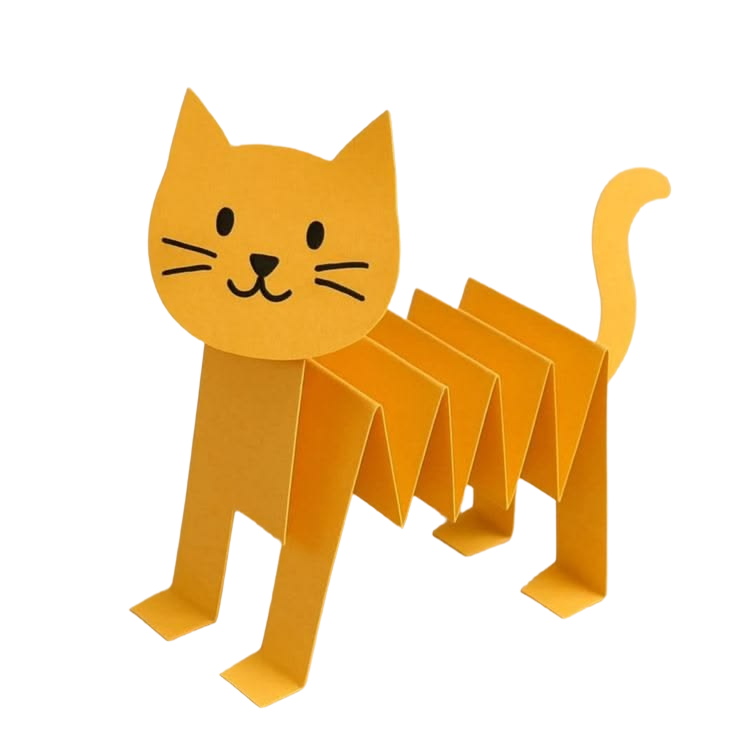
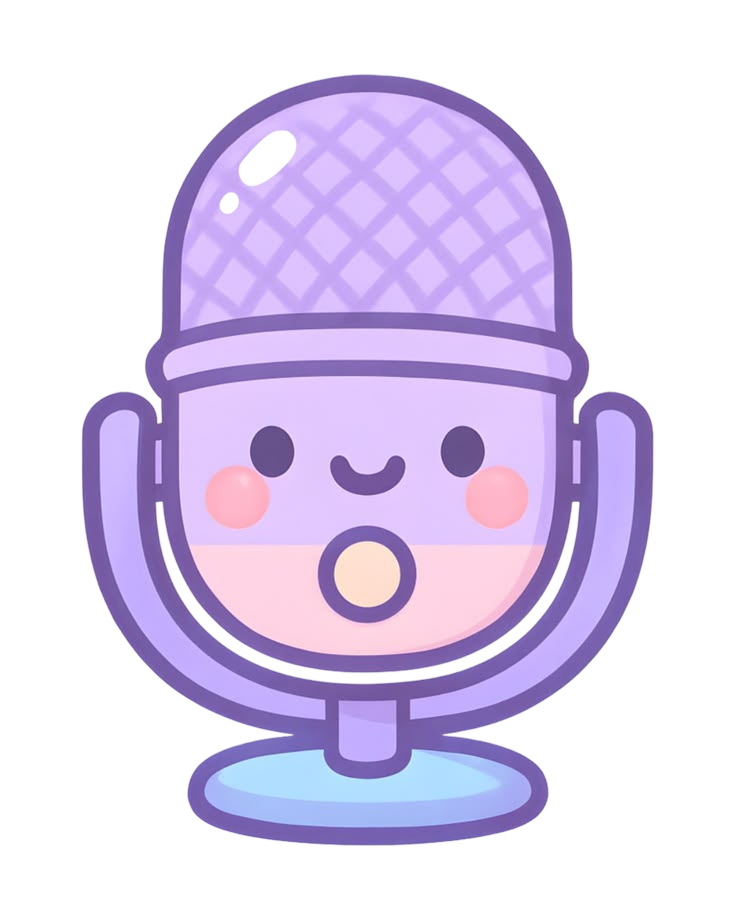
feat:redesign certificate

diff --git a/src/app/certificate/[code]/page.js b/src/app/certificate/[code]/page.js
@@ -25,26 +25,55 @@ export default async function CertificatePage({ params }) {
 
   return (
     <div className="page">
+      {/* Navigasi & Tombol Cetak (Otomatis hilang saat di-print) */}
       <div className="mb-6 flex flex-wrap items-center justify-between gap-3 print:hidden">
-        <Link href="/profile" className="text-sm font-semibold text-brand-700 hover:underline">← Kembali ke profil</Link>
+        <Link href="/profile" className="text-sm font-semibold text-brand-700 hover:underline">
+          ← Kembali ke profil
+        </Link>
         <PrintButton />
       </div>
 
-      <div className="hero-gradient mx-auto max-w-4xl rounded-3xl p-3 print:max-w-none print:rounded-none">
-        <div className="relative overflow-hidden rounded-2xl bg-white p-8 text-center sm:p-14">
-          <span aria-hidden="true" className="absolute left-6 top-6 text-3xl text-brand-300">✦</span>
-          <span aria-hidden="true" className="absolute right-8 top-10 text-2xl text-sky-300">✦</span>
-          <span aria-hidden="true" className="absolute bottom-8 left-10 text-2xl text-amber-300">✦</span>
-          <span aria-hidden="true" className="absolute bottom-6 right-6 text-3xl text-emerald-300">✦</span>
+      {/* Kanvas Sertifikat Rasio 16:9 sesuai template gambar */}
+      <div className="relative mx-auto aspect-video w-full max-w-5xl overflow-hidden rounded-3xl shadow-2xl print:max-w-none print:rounded-none print:shadow-none">
+        
+        {/* 1. Background Template Gambar Anda */}
+        <img
+          src="/images/certificate-bg.png"
+          alt="Bingkai Sertifikat BELLAJAR"
+          className="h-full w-full object-cover"
+        />
 
-          <div className="flex justify-center"><Logo size="lg" /></div>
-          <h1 className="mt-6 text-4xl sm:text-5xl">Sertifikat Kelulusan</h1>
-          <p className="mt-6 text-stone-600">Diberikan dengan bangga kepada</p>
-          <p className="mt-3 border-b-4 border-brand-300 pb-3 text-4xl font-bold text-brand-700 sm:text-5xl">{cert.student_name}</p>
-          <p className="mt-6 text-stone-600">yang telah menyelesaikan seluruh materi kursus</p>
-          <p className="mt-2 text-2xl font-bold text-emerald-700 sm:text-3xl">{cert.course_title}</p>
+        {/* 2. Isi Teks Dinamis di Atas Gambar */}
+        <div className="absolute inset-0 flex flex-col items-center justify-between px-14 py-8 text-center sm:px-24 sm:py-12">
+          
+          {/* Bagian Atas: Logo & Judul */}
+          <div className="flex flex-col items-center">
+            <Logo size="lg" />
+            <h1 className="mt-2 text-2xl font-extrabold tracking-wide text-[#3C096C] sm:mt-3 sm:text-4xl">
+              Sertifikat Kelulusan
+            </h1>
+            <p className="mt-1 text-xs font-medium text-stone-600 sm:text-sm">
+              Diberikan dengan bangga kepada
+            </p>
+          </div>
 
-          <div className="mt-10 grid gap-6 text-sm sm:grid-cols-3">
+          {/* Bagian Tengah: Nama Anak & Judul Kursus */}
+          <div className="my-auto flex w-full max-w-2xl flex-col items-center">
+            <p className="border-b-4 border-dashed border-[#FACC15] px-6 pb-2 text-2xl font-extrabold text-[#A828B5] sm:text-5xl">
+              {cert.student_name}
+            </p>
+
+            <p className="mt-3 text-xs font-medium text-stone-600 sm:mt-4 sm:text-base">
+              yang telah menyelesaikan seluruh materi kursus
+            </p>
+
+            <p className="mt-1.5 rounded-full bg-[#FAF5FF] px-5 py-1 text-base font-bold text-[#3C096C] ring-2 ring-[#E935C1]/30 sm:text-2xl">
+              {cert.course_title}
+            </p>
+          </div>
+
+          {/* Bagian Bawah: Tanggal, Pengajar & Kode Verifikasi (Digeser agak ke kiri agar tidak menabrak stiker medali kanan bawah) */}
+          <div className="grid w-full max-w-2xl grid-cols-3 gap-4 pb-1 pr-10 text-xs sm:pb-2 sm:pr-20 sm:text-sm">
             <div>
               <p className="text-stone-500">Tanggal lulus</p>
               <p className="font-semibold text-ink">{formatDate(cert.issued_at)}</p>
@@ -58,6 +87,7 @@ export default async function CertificatePage({ params }) {
               <p className="font-mono font-bold tracking-wider text-ink">{cert.certificate_code}</p>
             </div>
           </div>
+
         </div>
       </div>
     </div>

diff --git a/src/app/page.js b/src/app/page.js
@@ -40,36 +40,64 @@ export default async function HomePage({ searchParams }) {
     searching ? getCourses({ userId, search: q, categoryId }) : Promise.resolve([]),
   ]);
 
-  const shadow = { textShadow: '0 2px 14px rgba(120, 40, 160, 0.35)' };
+  // HAPUS kode `const shadow = ...` yang lama, GANTI dengan ini:
+    const shadow3dTitle = {
+      fontFamily: "'Nunito', sans-serif", 
+      textShadow: `
+        0 1px 0 #7b2cbf,
+        0 2px 0 #5a189a,
+        0 3px 0 #3c096c,
+        0 6px 12px rgba(35, 10, 65, 0.45)
+      `,
+    };
+
+    const shadow3dSubtitle = {
+      textShadow: '0 2px 6px rgba(45, 15, 85, 0.75)',
+    };
   const why = WHY.map((w) => ({ ...w, image: findWhyImage(w.file) }));
 
   return (
     <>
-      {/* Hero */}
+
+    {/* Hero */}
       <section className="hero-gradient relative overflow-hidden">
         <span aria-hidden="true" className="twinkle absolute left-[46%] top-[14%] text-2xl text-white">✦</span>
         <span aria-hidden="true" className="twinkle absolute left-[8%] top-[62%] text-lg text-white" style={{ animationDelay: '1s' }}>✦</span>
         <span aria-hidden="true" className="twinkle absolute right-[10%] top-[10%] text-xl text-yellow-200" style={{ animationDelay: '2s' }}>✦</span>
 
-        <div className="mx-auto grid max-w-6xl items-end gap-2 px-4 sm:px-5 lg:grid-cols-[1.15fr_1fr]">
-          <div className="pb-8 pt-12 sm:pt-16 lg:pb-16">
-            <h1 className="max-w-lg text-4xl font-bold leading-[1.2] text-white sm:text-5xl sm:leading-[1.2]" style={shadow}>              Belajar jadi petualangan, satu bab setiap hari.
+        <div className="mx-auto grid max-w-7xl items-end gap-2 px-4 sm:px-5 lg:grid-cols-[1.15fr_1fr]">
+          <div className="relative z-10 pb-8 pt-12 sm:pt-16 lg:pb-16">
+            {/* Lebar disamakan ke max-w-2xl agar sejajar dengan card pencarian */}
+            <h1 
+              className="max-w-2xl text-4xl font-extrabold leading-[1.2] text-white sm:text-5xl sm:leading-[1.2]" 
+              style={shadow3dTitle}
+            >             
+              Belajar Jadi Petualangan, Satu Bab Setiap Hari.
             </h1>
-            <p className="mt-2 max-w-md text-base font-medium text-white" style={shadow}>
-              Kursus daring untuk anak usia 7–12 tahun. Materi singkat, progres tersimpan, dan sertifikat
+
+            {/* Lebar disamakan ke max-w-2xl agar sejajar dengan card pencarian */}
+            <p 
+              className="mt-2 max-w-2xl text-base font-medium text-white" 
+              style={shadow3dSubtitle}
+            >
+              Kursus daring untuk anak usia 5-11 tahun. Materi singkat, progres tersimpan, dan sertifikat
               otomatis saat semua bab selesai.
             </p>
-            <div className="mt-6 max-w-xl rounded-2xl bg-white p-3 shadow-lg">
+
+            {/* Card pencarian */}
+            <div className="mt-6 w-full max-w-2xl rounded-2xl bg-white p-3 shadow-lg">
               <SearchForm action="/" categories={categories} q={q} category={categoryId || ''} />
             </div>
           </div>
-          <div className="self-end pb-0">
+
+          {/* Ditambahkan origin-bottom agar kaki gambar tidak terpotong saat di-scale */}
+          <div className="w-full self-end pb-0 origin-bottom lg:translate-x-8 lg:scale-110">
             <HeroKids />
           </div>
         </div>
       </section>
 
-      <div className="page space-y-14">
+      <div className="page space-y-14 page !max-w-7xl">
         {/* Kategori */}
         {categories.length > 0 && (
           <section aria-labelledby="kategori">

diff --git a/src/components/Navbar.js b/src/components/Navbar.js
@@ -27,7 +27,7 @@ export default async function Navbar() {
 
   return (
     <header className="sticky top-0 z-40 bg-white/95 shadow-[0_1px_0_rgba(217,70,201,0.15)] backdrop-blur print:hidden">
-      <div className="mx-auto flex max-w-6xl items-center justify-between gap-4 px-4 py-3 sm:px-6">
+      <div className="mx-auto flex max-w-7xl items-center justify-between gap-4 px-4 py-3 sm:px-6">
         <Link href="/" aria-label="BELLAJAR – Beranda" className="shrink-0">
           <Logo />
         </Link>
@@ -74,7 +74,7 @@ export default async function Navbar() {
 
       {staff.length > 0 && (
         <div className="hidden border-t border-brand-100 bg-brand-50 md:block">
-          <nav aria-label="Menu pengelola" className="mx-auto flex max-w-6xl items-center gap-2 px-4 py-2 sm:px-6">
+          <nav aria-label="Menu pengelola" className="mx-auto flex max-w-7xl items-center gap-2 px-4 py-2 sm:px-6">
             <span className="mr-1 text-xs font-semibold text-brand-800">Pengelola:</span>
             {staff.map((l) => (
               <NavLink key={l.href} href={l.href} size="sm">{l.label}</NavLink>

diff --git a/src/components/Footer.js b/src/components/Footer.js
@@ -5,10 +5,10 @@ export default function Footer() {
   return (
     <footer className="mt-16 bg-white print:hidden">
       <div className="hero-gradient h-2" />
-      <div className="mx-auto grid max-w-6xl gap-8 px-4 py-10 sm:px-6 md:grid-cols-[1fr_auto]">
+      <div className="mx-auto grid max-w-7xl gap-8 px-4 py-10 sm:px-6 md:grid-cols-[1fr_auto]">
         <div>
           <Logo />
-          <p className="mt-2 max-w-xl text-sm text-stone-600">Kursus daring yang ramah untuk anak usia 7–12 tahun.</p>
+          <p className="mt-2 max-w-xl text-sm text-stone-600">Kursus daring yang ramah untuk anak usia 5-11 tahun.</p>
           <p className="mt-4 max-w-xl rounded-2xl border border-amber-300 bg-amber-100 px-4 py-3 text-sm text-amber-800">
             <strong>Untuk Ayah &amp; Bunda:</strong> mohon dampingi si kecil saat belajar dan gunakan email orang
             tua saat mendaftar, agar progres dan sertifikatnya tersimpan dengan aman.

diff --git a/src/app/globals.css b/src/app/globals.css
@@ -71,11 +71,11 @@
     @apply rounded-2xl border border-red-200 bg-red-50 px-4 py-3 text-sm font-semibold text-red-700;
   }
   .page {
-    @apply mx-auto w-full max-w-6xl px-4 py-8 sm:px-6;
+    @apply mx-auto w-full max-w-7xl px-4 py-8 sm:px-6;
   }
   /* Gradien khas BELLAJAR: pink → lavender → biru langit */
   .hero-gradient {
-    background: linear-gradient(180deg, #f6a6ef 0%, #c5b4f2 52%, #6ecbff 100%);
+    background: linear-gradient(180deg, #fc3fe9 0%, #63c5fd 100%);
   }
   .soft-gradient {
     background: linear-gradient(180deg, #fde1fb 0%, #ede4fb 55%, #d6f0ff 100%);
@@ -104,5 +104,16 @@
   }
   body {
     background: #fff !important;
+  }
+}
+
+@media print {
+  @page {
+    size: landscape;
+    margin: 0;
+  }
+  body {
+    -webkit-print-color-adjust: exact;
+    print-color-adjust: exact;
   }
 }

diff --git a/src/app/layout.js b/src/app/layout.js
@@ -14,10 +14,10 @@ export default function RootLayout({ children }) {
       <head>
         <link rel="preconnect" href="https://fonts.googleapis.com" />
         <link rel="preconnect" href="https://fonts.gstatic.com" crossOrigin="anonymous" />
-        <link
-          href="https://fonts.googleapis.com/css2?family=Fredoka:wght@600;700&family=Poppins:wght@400;500;600;700&display=swap"
-          rel="stylesheet"
-        />
+      <link
+        href="https://fonts.googleapis.com/css2?family=Fredoka:wght@600;700&family=Nunito:wght@600;700;800&family=Poppins:wght@400;500;600;700&display=swap"
+        rel="stylesheet"
+      />
       </head>
       <body className="flex min-h-screen flex-col font-sans">
         <Navbar />
